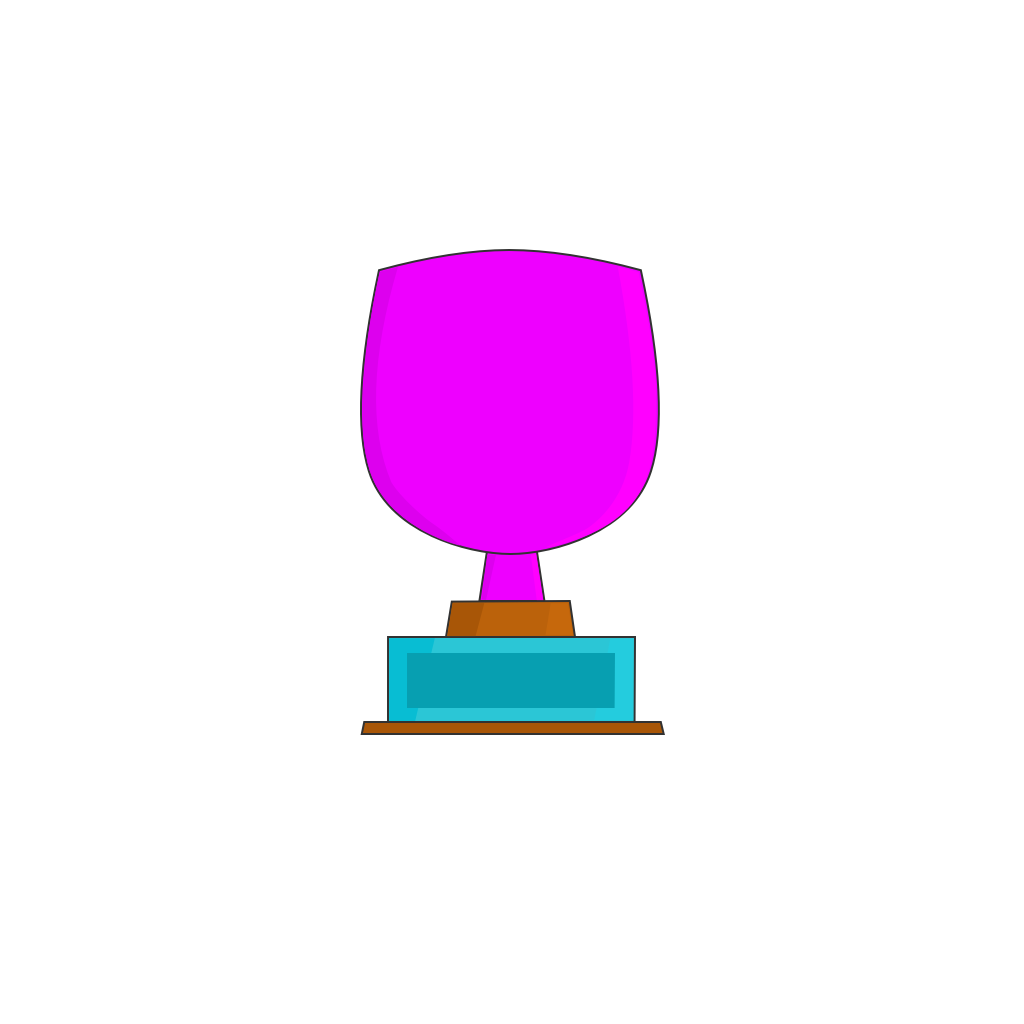
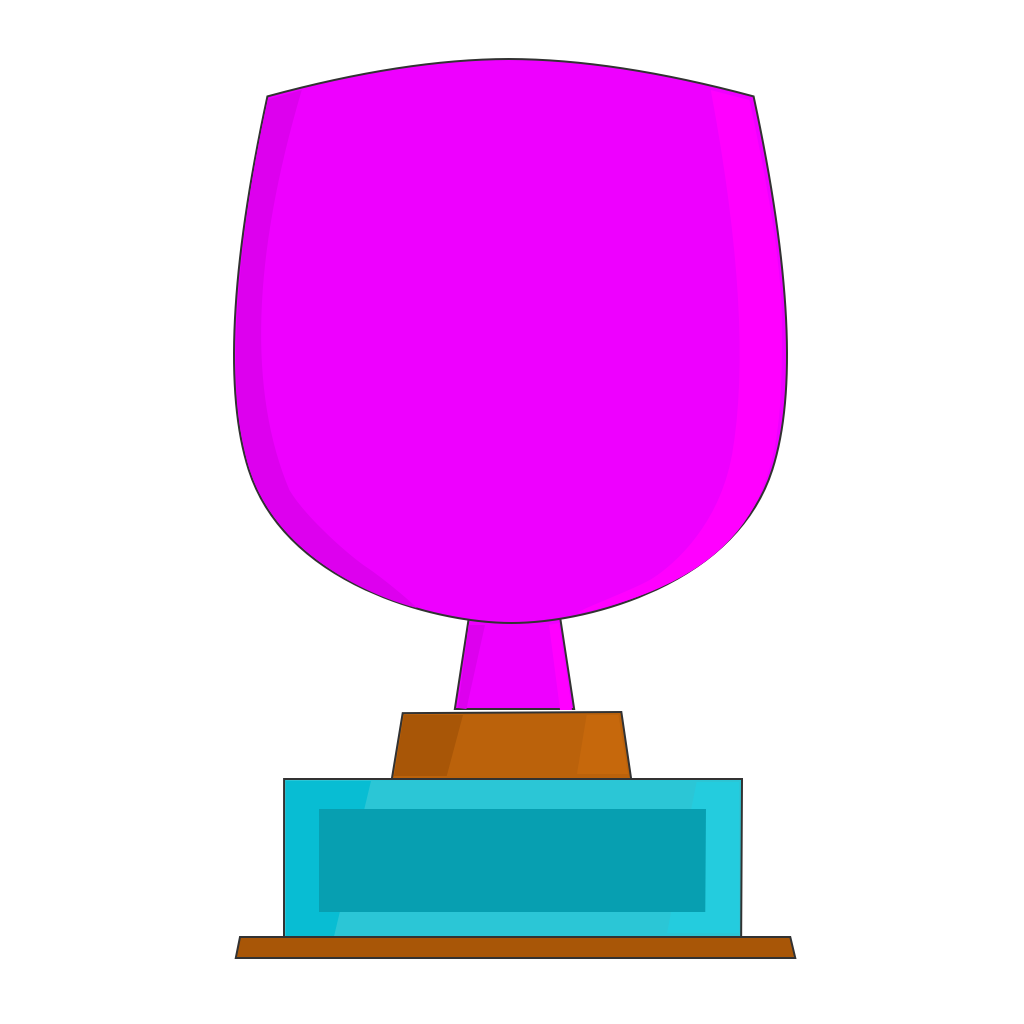
* size up contents of trophys/badges to match 1024 x 1024 container

Changed region(s): [[0.2188, 0.0312, 0.7812, 0.9375]]

diff --git a/app/javascripts/services/award-url.js b/app/javascripts/services/award-url.js
@@ -1,6 +1,6 @@
 const AWARD_TYPE_IMAGE_URLS = [
   '/images/trophy-images/icons-trophy--1024-1024.png',
-  '/images/trophy-images/badge-icon--1024-1024.png'
+  '/images/trophy-images/icons-badge--1024-1024.png'
 ]
 
 const AWARD_TYPE_IMAGE_URLS_SMALL = [
